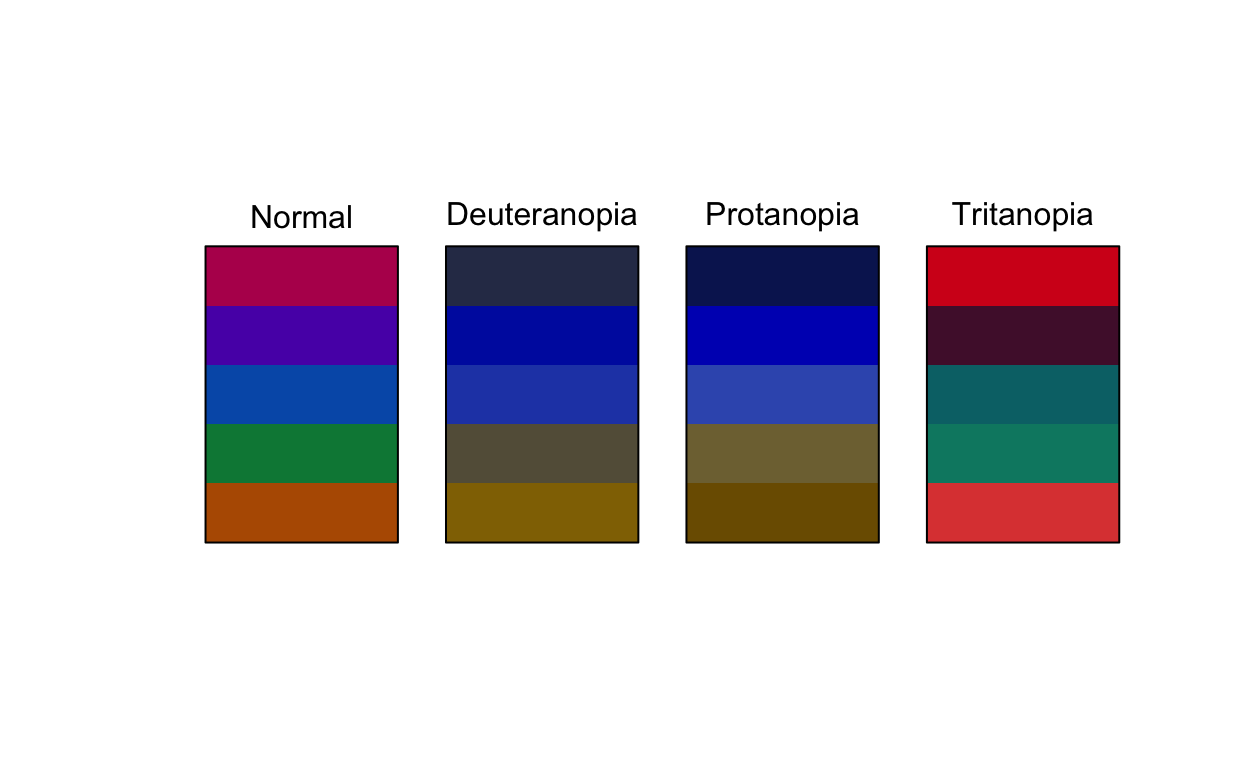
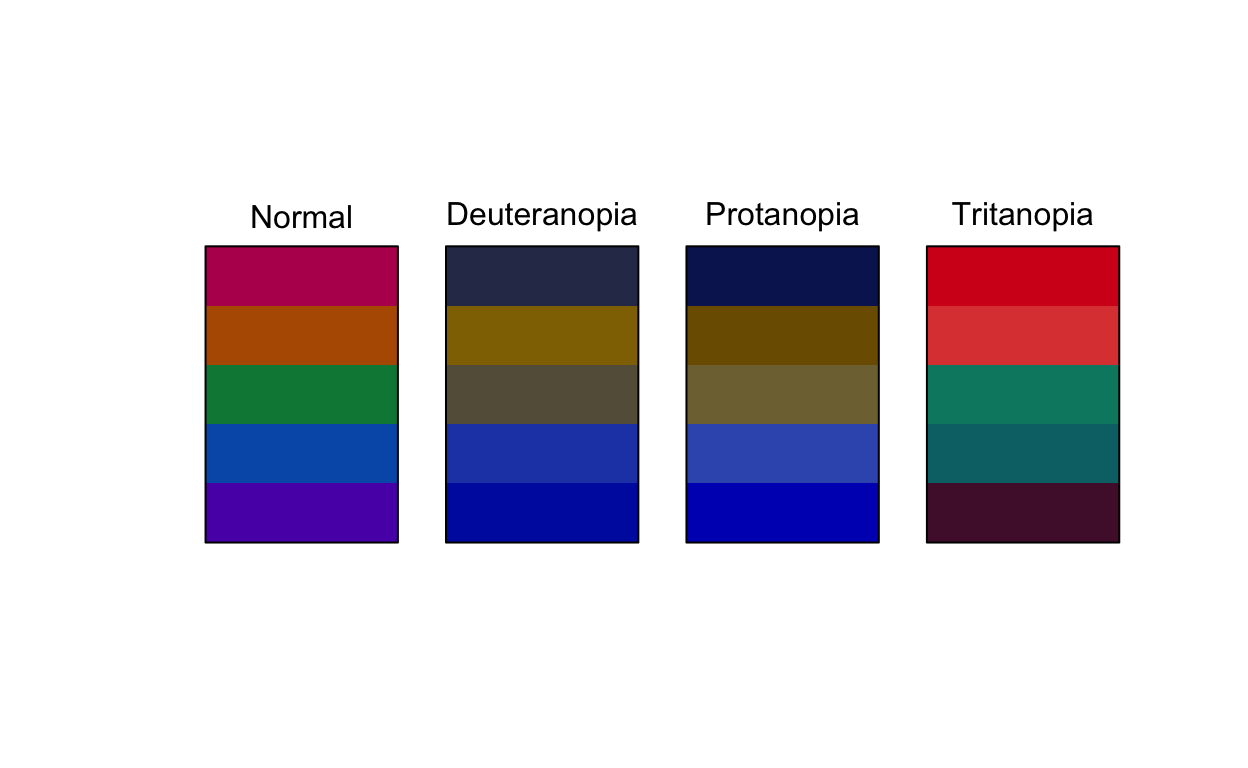
finish colourblindness section

Changed region(s): [[0.1562, 0.375, 0.9062, 0.7188]]

diff --git a/_posts/2021-05-15-custom-syntax-highlighting-for-distill/custom-syntax-highlighting-for-distill.html b/_posts/2021-05-15-custom-syntax-highlighting-for-distill/custom-syntax-highlighting-for-distill.html
@@ -124,7 +124,7 @@ code span.wa { color: #5e5e5e; font-style: italic; } /* Warning */
   <!--/radix_placeholder_rmarkdown_metadata-->
   
   <script type="text/json" id="radix-resource-manifest">
-  {"type":"character","attributes":{},"value":["colour-harmonies.jpg","colour-palettes-d4006a.png","contrast-check.png","custom-syntax-highlighting-for-distill_files/anchor-4.2.2/anchor.min.js","custom-syntax-highlighting-for-distill_files/bowser-1.9.3/bowser.min.js","custom-syntax-highlighting-for-distill_files/distill-2.2.21/template.v2.js","custom-syntax-highlighting-for-distill_files/figure-html5/colour-theory-palette-1.png","custom-syntax-highlighting-for-distill_files/figure-html5/unnamed-chunk-10-1.png","custom-syntax-highlighting-for-distill_files/figure-html5/unnamed-chunk-11-1.png","custom-syntax-highlighting-for-distill_files/figure-html5/unnamed-chunk-2-1.png","custom-syntax-highlighting-for-distill_files/figure-html5/unnamed-chunk-3-1.png","custom-syntax-highlighting-for-distill_files/figure-html5/unnamed-chunk-4-1.png","custom-syntax-highlighting-for-distill_files/figure-html5/unnamed-chunk-5-1.png","custom-syntax-highlighting-for-distill_files/figure-html5/unnamed-chunk-5-2.png","custom-syntax-highlighting-for-distill_files/figure-html5/unnamed-chunk-6-1.png","custom-syntax-highlighting-for-distill_files/figure-html5/unnamed-chunk-7-1.png","custom-syntax-highlighting-for-distill_files/figure-html5/unnamed-chunk-8-1.png","custom-syntax-highlighting-for-distill_files/figure-html5/unnamed-chunk-9-1.png","custom-syntax-highlighting-for-distill_files/header-attrs-2.8/header-attrs.js","custom-syntax-highlighting-for-distill_files/jquery-1.11.3/jquery.min.js","custom-syntax-highlighting-for-distill_files/popper-2.6.0/popper.min.js","custom-syntax-highlighting-for-distill_files/tippy-6.2.7/tippy-bundle.umd.min.js","custom-syntax-highlighting-for-distill_files/tippy-6.2.7/tippy-light-border.css","custom-syntax-highlighting-for-distill_files/tippy-6.2.7/tippy.css","custom-syntax-highlighting-for-distill_files/tippy-6.2.7/tippy.umd.min.js","custom-syntax-highlighting-for-distill_files/webcomponents-2.0.0/webcomponents.js","ek-syntax-highlighting-palette.png","first-colour-swatch.png","hsl-colour-wheel-d4006a-annotated.png","hsl-colour-wheel-d4006a.png","hsl-hsb-sliders.png","second-colour-swatch.png","third-colour-swatch.png"]}
+  {"type":"character","attributes":{},"value":["check-colorblindness.png","colour-harmonies.jpg","colour-palettes-d4006a.png","contrast-check.png","custom-syntax-highlighting-for-distill_files/anchor-4.2.2/anchor.min.js","custom-syntax-highlighting-for-distill_files/bowser-1.9.3/bowser.min.js","custom-syntax-highlighting-for-distill_files/distill-2.2.21/template.v2.js","custom-syntax-highlighting-for-distill_files/figure-html5/colour-theory-palette-1.png","custom-syntax-highlighting-for-distill_files/figure-html5/unnamed-chunk-10-1.png","custom-syntax-highlighting-for-distill_files/figure-html5/unnamed-chunk-11-1.png","custom-syntax-highlighting-for-distill_files/figure-html5/unnamed-chunk-2-1.png","custom-syntax-highlighting-for-distill_files/figure-html5/unnamed-chunk-3-1.png","custom-syntax-highlighting-for-distill_files/figure-html5/unnamed-chunk-4-1.png","custom-syntax-highlighting-for-distill_files/figure-html5/unnamed-chunk-5-1.png","custom-syntax-highlighting-for-distill_files/figure-html5/unnamed-chunk-5-2.png","custom-syntax-highlighting-for-distill_files/figure-html5/unnamed-chunk-6-1.png","custom-syntax-highlighting-for-distill_files/figure-html5/unnamed-chunk-7-1.png","custom-syntax-highlighting-for-distill_files/figure-html5/unnamed-chunk-8-1.png","custom-syntax-highlighting-for-distill_files/figure-html5/unnamed-chunk-9-1.png","custom-syntax-highlighting-for-distill_files/header-attrs-2.8/header-attrs.js","custom-syntax-highlighting-for-distill_files/jquery-1.11.3/jquery.min.js","custom-syntax-highlighting-for-distill_files/popper-2.6.0/popper.min.js","custom-syntax-highlighting-for-distill_files/tippy-6.2.7/tippy-bundle.umd.min.js","custom-syntax-highlighting-for-distill_files/tippy-6.2.7/tippy-light-border.css","custom-syntax-highlighting-for-distill_files/tippy-6.2.7/tippy.css","custom-syntax-highlighting-for-distill_files/tippy-6.2.7/tippy.umd.min.js","custom-syntax-highlighting-for-distill_files/webcomponents-2.0.0/webcomponents.js","ek-syntax-highlighting-palette.png","first-colour-swatch.png","hsl-colour-wheel-d4006a-annotated.png","hsl-colour-wheel-d4006a.png","hsl-hsb-sliders.png","second-colour-swatch.png","third-colour-swatch.png"]}
   </script>
   <!--radix_placeholder_navigation_in_header-->
   <!--/radix_placeholder_navigation_in_header-->
@@ -1672,7 +1672,7 @@ Figure 4: Colours for syntax highlighting, starting from my main pink, based onl
 </div>
 <h3 id="adapting-for-web-accessibility">Adapting for web accessibility</h3>
 <p>As noted at the beginning of this post, one key feature of the default syntax highlighting scheme for {distill} is that it is optimised for accessibility and colour contrast. According to the <a href="https://www.w3.org/WAI/standards-guidelines/wcag/">Web Content Accessibility Guidelines</a>, at the WCAG AA (minimum contrast) level, this requires that that contrast ratio between text and background colours be at least 4.5:1 for text of 14pt+ (which is the default text size for code in {distill}). The more stringent WCAG AAA (enhanced) level requires a ratio of at least 7:1.</p>
-<p>The pro version of ColorSlurp includes a contrast checker, as in Figure <a href="#fig:colorslurp-contrast">5</a>, though there are many websites that also offer this. The WebAIM (Web with Accessibility in Mind), has a very handy <a href="https://webaim.org/resources/contrastchecker/">contrast checker</a> which, like ColorSlurp, also includes lightness sliders for adjusting the colours until the desired contrast is reached. Darkening a colour to improve contrast keeps the hue and saturation the same but reduces the brightness or lightness component (ColorSlurp uses HSB, WebAIM uses HCL).</p>
+<p>The pro version of ColorSlurp includes a contrast checker, as in Figure <a href="#fig:colorslurp-contrast">5</a>, though there are many websites that also offer this. The WebAIM (Web with Accessibility in Mind), has a very handy <a href="https://webaim.org/resources/contrastchecker/">contrast checker</a> which, like ColorSlurp, also includes lightness sliders for adjusting the colours until the desired contrast is reached. Darkening a colour to improve contrast keeps the hue and saturation the same but reduces the brightness or lightness component (ColorSlurp uses HSB, WebAIM uses HSL).</p>
 <div class="layout-chunk" data-layout="l-body">
 <div class="figure"><span id="fig:colorslurp-contrast"></span>
 <img src="contrast-check.png" alt="Contrast checking in ColorSlurp" width="598" />
@@ -1711,30 +1711,22 @@ Figure 8: The palette I settled on for my syntax highlighting scheme.
 </p>
 </div>
 </div>
-<p>I’m happy with that, and that’s the syntax highlighting scheme I’ve adopted throughout this site, despite the fact that the palette now doesn’t actually include the pink that I set out to build my scheme around! However, because of the process I’ve followed, the pink that is in the palette does tones well with the brighter pink and I think my site still has a consistent look. In the end, it was more important that all the colours in the palette looked consistent together and met accessibility guidelines.</p>
-<p>I am only just beginning to learn about web accessibility, and I know my site does not yet meet all best practices, but I’m committed to improving in this area. I first became aware of the issue of web accessibility because I follow <a href="https://twitter.com/spcanelon">Silvia Canelón on twitter</a> and I highly recommend you do the same! The <a href="https://www.a11yproject.com">a11y project</a> and <a href="https://webaim.org">WebAIM</a> are also great places to get started.</p>
-<h3 id="checking-for-colourblindness">Checking for colourblindness</h3>
-<ul>
-<li><a href="https://njt-monash-colour.netlify.app/#1" class="uri">https://njt-monash-colour.netlify.app/#1</a></li>
-<li><a href="https://www.njtierney.com/post/2020/10/15/assess-colour/" class="uri">https://www.njtierney.com/post/2020/10/15/assess-colour/</a></li>
-</ul>
 <div class="layout-chunk" data-layout="l-body">
 <div class="sourceCode">
-<pre class="sourceCode r"><code class="sourceCode r"><span class='kw'><a href='https://rdrr.io/r/base/library.html'>library</a></span><span class='op'>(</span><span class='va'><a href='https://colorspace.R-Forge.R-project.org/'>colorspace</a></span><span class='op'>)</span>
-<span class='va'>ek_highlight_colours</span> <span class='op'>&lt;-</span> <span class='fu'><a href='https://rdrr.io/r/base/c.html'>c</a></span><span class='op'>(</span><span class='st'>"#B65B00"</span>, <span class='st'>"#008643"</span>, <span class='st'>"#005BB6"</span>, <span class='st'>"#5A00B5"</span>, <span class='st'>"#B6005B"</span><span class='op'>)</span>
-<span class='fu'><a href='https://colorspace.R-Forge.R-project.org//reference/swatchplot.html'>swatchplot</a></span><span class='op'>(</span><span class='fu'><a href='https://rdrr.io/r/base/rev.html'>rev</a></span><span class='op'>(</span><span class='va'>ek_highlight_colours</span><span class='op'>)</span>, border <span class='op'>=</span> <span class='st'>"transparent"</span><span class='op'>)</span>
+<pre class="sourceCode r"><code class="sourceCode r"><span class='fu'><a href='https://rdrr.io/r/graphics/par.html'>par</a></span><span class='op'>(</span>mar <span class='op'>=</span> <span class='fu'><a href='https://rdrr.io/r/base/c.html'>c</a></span><span class='op'>(</span><span class='fl'>4</span>, <span class='fl'>4</span>, <span class='fl'>0.1</span>, <span class='fl'>0.1</span><span class='op'>)</span><span class='op'>)</span>  
+<span class='kw'><a href='https://rdrr.io/r/base/library.html'>library</a></span><span class='op'>(</span><span class='va'><a href='https://scales.r-lib.org'>scales</a></span><span class='op'>)</span>
+<span class='fu'>scales</span><span class='fu'>::</span><span class='fu'><a href='https://scales.r-lib.org/reference/show_col.html'>show_col</a></span><span class='op'>(</span><span class='fu'><a href='https://rdrr.io/r/base/rev.html'>rev</a></span><span class='op'>(</span><span class='va'>ek_highlight_colours</span><span class='op'>)</span>, ncol <span class='op'>=</span> <span class='fl'>5</span>, labels <span class='op'>=</span> <span class='cn'>TRUE</span>, borders <span class='op'>=</span> <span class='st'>"white"</span>, cex_label <span class='op'>=</span> <span class='fl'>0.8</span><span class='op'>)</span>
 </code></pre>
 </div>
 <p><img src="custom-syntax-highlighting-for-distill_files/figure-html5/unnamed-chunk-4-1.png" width="624" /></p>
 </div>
-<div class="layout-chunk" data-layout="l-body">
-<div class="sourceCode">
-<pre class="sourceCode r"><code class="sourceCode r"><span class='kw'><a href='https://rdrr.io/r/base/library.html'>library</a></span><span class='op'>(</span><span class='va'><a href='https://github.com/EmilHvitfeldt/prismatic'>prismatic</a></span><span class='op'>)</span>
-<span class='fu'><a href='https://rdrr.io/pkg/prismatic/man/check_color_blindness.html'>check_color_blindness</a></span><span class='op'>(</span><span class='va'>ek_highlight_colours</span><span class='op'>)</span>
-</code></pre>
-</div>
-<p><img src="custom-syntax-highlighting-for-distill_files/figure-html5/unnamed-chunk-5-1.png" width="624" /></p>
-</div>
+<p>I’m happy with that, and that’s the syntax highlighting scheme I’ve adopted throughout this site, despite the fact that the palette now doesn’t actually include the pink that I set out to build my scheme around! However, because of the process I’ve followed, the pink that is in the palette does tones well with the brighter pink and I think my site still has a consistent look. In the end, it was more important that all the colours in the palette looked consistent together and met accessibility guidelines.</p>
+<p>I am only just beginning to learn about web accessibility, and I know my site does not yet meet all best practices, but I’m committed to improving in this area. I first became aware of the issue of web accessibility because I follow <a href="https://twitter.com/spcanelon">Silvia Canelón on twitter</a> and I highly recommend you do the same! The <a href="https://www.a11yproject.com">a11y project</a> and <a href="https://webaim.org">WebAIM</a> are great places to learn more.</p>
+<h3 id="checking-for-colourblindness">Checking for colourblindness</h3>
+<p>Some visual impairments require a high colour contrast between text and background colour in order to be able to read content on the web. Another class of visual impairment worth paying attention to when designing palettes in that of colour blindness. (The WCAG note that all users should be able to access information that is conveyed by colour differences).</p>
+<p><a href="https://www.njtierney.com">Nick Tierney</a> has some excellent resources about colour and colourblindness and R packages for accessing these. <a href="https://njt-monash-colour.netlify.app/#1">These comprehensive slides</a> cover what colour is and how we perceive it, colourblindness, how to check how palettes/plots appear to those with different types of colourblindness, the HCL space, the {colorspace} package and how to create your own palettes. He also has a <a href="https://www.njtierney.com/post/2020/10/15/assess-colour/">short blog post</a> on quickly assessing colour palettes to ensure they’re colourblind-friendly.</p>
+<p>As recommended in the above posts, I use the <a href="https://emilhvitfeldt.github.io/prismatic/">{prismatic}</a> package by <a href="https://www.hvitfeldt.me">Emil Hvitfeldt</a> to check how my syntax highlighting palette appears to those with different types of colourblindness:</p>
+<p>Thankfully, for all three main types of colourblindess, the five colours in the palette are distinguishable, so no further adjustments are necessary.</p>
 <h3 id="an-r-based-alternative">An R-based alternative</h3>
 <div class="layout-chunk" data-layout="l-body">
 <div class="sourceCode">

diff --git a/_site/posts/2021-05-15-custom-syntax-highlighting-for-distill/index.html b/_site/posts/2021-05-15-custom-syntax-highlighting-for-distill/index.html
@@ -137,7 +137,7 @@ code span.wa { color: #5e5e5e; font-style: italic; } /* Warning */
 <!--/radix_placeholder_rmarkdown_metadata-->
   
   <script type="text/json" id="radix-resource-manifest">
-  {"type":"character","attributes":{},"value":["colour-harmonies.jpg","colour-palettes-d4006a.png","contrast-check.png","custom-syntax-highlighting-for-distill_files/anchor-4.2.2/anchor.min.js","custom-syntax-highlighting-for-distill_files/bowser-1.9.3/bowser.min.js","custom-syntax-highlighting-for-distill_files/distill-2.2.21/template.v2.js","custom-syntax-highlighting-for-distill_files/figure-html5/colour-theory-palette-1.png","custom-syntax-highlighting-for-distill_files/figure-html5/unnamed-chunk-10-1.png","custom-syntax-highlighting-for-distill_files/figure-html5/unnamed-chunk-11-1.png","custom-syntax-highlighting-for-distill_files/figure-html5/unnamed-chunk-2-1.png","custom-syntax-highlighting-for-distill_files/figure-html5/unnamed-chunk-3-1.png","custom-syntax-highlighting-for-distill_files/figure-html5/unnamed-chunk-4-1.png","custom-syntax-highlighting-for-distill_files/figure-html5/unnamed-chunk-5-1.png","custom-syntax-highlighting-for-distill_files/figure-html5/unnamed-chunk-5-2.png","custom-syntax-highlighting-for-distill_files/figure-html5/unnamed-chunk-6-1.png","custom-syntax-highlighting-for-distill_files/figure-html5/unnamed-chunk-7-1.png","custom-syntax-highlighting-for-distill_files/figure-html5/unnamed-chunk-8-1.png","custom-syntax-highlighting-for-distill_files/figure-html5/unnamed-chunk-9-1.png","custom-syntax-highlighting-for-distill_files/header-attrs-2.8/header-attrs.js","custom-syntax-highlighting-for-distill_files/jquery-1.11.3/jquery.min.js","custom-syntax-highlighting-for-distill_files/popper-2.6.0/popper.min.js","custom-syntax-highlighting-for-distill_files/tippy-6.2.7/tippy-bundle.umd.min.js","custom-syntax-highlighting-for-distill_files/tippy-6.2.7/tippy-light-border.css","custom-syntax-highlighting-for-distill_files/tippy-6.2.7/tippy.css","custom-syntax-highlighting-for-distill_files/tippy-6.2.7/tippy.umd.min.js","custom-syntax-highlighting-for-distill_files/webcomponents-2.0.0/webcomponents.js","ek-syntax-highlighting-palette.png","first-colour-swatch.png","hsl-colour-wheel-d4006a-annotated.png","hsl-colour-wheel-d4006a.png","hsl-hsb-sliders.png","second-colour-swatch.png","third-colour-swatch.png"]}
+  {"type":"character","attributes":{},"value":["check-colorblindness.png","colour-harmonies.jpg","colour-palettes-d4006a.png","contrast-check.png","custom-syntax-highlighting-for-distill_files/anchor-4.2.2/anchor.min.js","custom-syntax-highlighting-for-distill_files/bowser-1.9.3/bowser.min.js","custom-syntax-highlighting-for-distill_files/distill-2.2.21/template.v2.js","custom-syntax-highlighting-for-distill_files/figure-html5/colour-theory-palette-1.png","custom-syntax-highlighting-for-distill_files/figure-html5/unnamed-chunk-10-1.png","custom-syntax-highlighting-for-distill_files/figure-html5/unnamed-chunk-11-1.png","custom-syntax-highlighting-for-distill_files/figure-html5/unnamed-chunk-2-1.png","custom-syntax-highlighting-for-distill_files/figure-html5/unnamed-chunk-3-1.png","custom-syntax-highlighting-for-distill_files/figure-html5/unnamed-chunk-4-1.png","custom-syntax-highlighting-for-distill_files/figure-html5/unnamed-chunk-5-1.png","custom-syntax-highlighting-for-distill_files/figure-html5/unnamed-chunk-5-2.png","custom-syntax-highlighting-for-distill_files/figure-html5/unnamed-chunk-6-1.png","custom-syntax-highlighting-for-distill_files/figure-html5/unnamed-chunk-7-1.png","custom-syntax-highlighting-for-distill_files/figure-html5/unnamed-chunk-8-1.png","custom-syntax-highlighting-for-distill_files/figure-html5/unnamed-chunk-9-1.png","custom-syntax-highlighting-for-distill_files/header-attrs-2.8/header-attrs.js","custom-syntax-highlighting-for-distill_files/jquery-1.11.3/jquery.min.js","custom-syntax-highlighting-for-distill_files/popper-2.6.0/popper.min.js","custom-syntax-highlighting-for-distill_files/tippy-6.2.7/tippy-bundle.umd.min.js","custom-syntax-highlighting-for-distill_files/tippy-6.2.7/tippy-light-border.css","custom-syntax-highlighting-for-distill_files/tippy-6.2.7/tippy.css","custom-syntax-highlighting-for-distill_files/tippy-6.2.7/tippy.umd.min.js","custom-syntax-highlighting-for-distill_files/webcomponents-2.0.0/webcomponents.js","ek-syntax-highlighting-palette.png","first-colour-swatch.png","hsl-colour-wheel-d4006a-annotated.png","hsl-colour-wheel-d4006a.png","hsl-hsb-sliders.png","second-colour-swatch.png","third-colour-swatch.png"]}
   </script>
   <!--radix_placeholder_navigation_in_header-->
 <meta name="distill:offset" content="../.."/>
@@ -2603,7 +2603,7 @@ Figure 4: Colours for syntax highlighting, starting from my main pink, based onl
 </div>
 <h3 id="adapting-for-web-accessibility">Adapting for web accessibility</h3>
 <p>As noted at the beginning of this post, one key feature of the default syntax highlighting scheme for {distill} is that it is optimised for accessibility and colour contrast. According to the <a href="https://www.w3.org/WAI/standards-guidelines/wcag/">Web Content Accessibility Guidelines</a>, at the WCAG AA (minimum contrast) level, this requires that that contrast ratio between text and background colours be at least 4.5:1 for text of 14pt+ (which is the default text size for code in {distill}). The more stringent WCAG AAA (enhanced) level requires a ratio of at least 7:1.</p>
-<p>The pro version of ColorSlurp includes a contrast checker, as in Figure <a href="#fig:colorslurp-contrast">5</a>, though there are many websites that also offer this. The WebAIM (Web with Accessibility in Mind), has a very handy <a href="https://webaim.org/resources/contrastchecker/">contrast checker</a> which, like ColorSlurp, also includes lightness sliders for adjusting the colours until the desired contrast is reached. Darkening a colour to improve contrast keeps the hue and saturation the same but reduces the brightness or lightness component (ColorSlurp uses HSB, WebAIM uses HCL).</p>
+<p>The pro version of ColorSlurp includes a contrast checker, as in Figure <a href="#fig:colorslurp-contrast">5</a>, though there are many websites that also offer this. The WebAIM (Web with Accessibility in Mind), has a very handy <a href="https://webaim.org/resources/contrastchecker/">contrast checker</a> which, like ColorSlurp, also includes lightness sliders for adjusting the colours until the desired contrast is reached. Darkening a colour to improve contrast keeps the hue and saturation the same but reduces the brightness or lightness component (ColorSlurp uses HSB, WebAIM uses HSL).</p>
 <div class="layout-chunk" data-layout="l-body">
 <div class="figure"><span id="fig:colorslurp-contrast"></span>
 <img src="contrast-check.png" alt="Contrast checking in ColorSlurp" width="598" />
@@ -2642,30 +2642,22 @@ Figure 8: The palette I settled on for my syntax highlighting scheme.
 </p>
 </div>
 </div>
-<p>I’m happy with that, and that’s the syntax highlighting scheme I’ve adopted throughout this site, despite the fact that the palette now doesn’t actually include the pink that I set out to build my scheme around! However, because of the process I’ve followed, the pink that is in the palette does tones well with the brighter pink and I think my site still has a consistent look. In the end, it was more important that all the colours in the palette looked consistent together and met accessibility guidelines.</p>
-<p>I am only just beginning to learn about web accessibility, and I know my site does not yet meet all best practices, but I’m committed to improving in this area. I first became aware of the issue of web accessibility because I follow <a href="https://twitter.com/spcanelon">Silvia Canelón on twitter</a> and I highly recommend you do the same! The <a href="https://www.a11yproject.com">a11y project</a> and <a href="https://webaim.org">WebAIM</a> are also great places to get started.</p>
-<h3 id="checking-for-colourblindness">Checking for colourblindness</h3>
-<ul>
-<li><a href="https://njt-monash-colour.netlify.app/#1" class="uri">https://njt-monash-colour.netlify.app/#1</a></li>
-<li><a href="https://www.njtierney.com/post/2020/10/15/assess-colour/" class="uri">https://www.njtierney.com/post/2020/10/15/assess-colour/</a></li>
-</ul>
 <div class="layout-chunk" data-layout="l-body">
 <div class="sourceCode">
-<pre class="sourceCode r"><code class="sourceCode r"><span class='kw'><a href='https://rdrr.io/r/base/library.html'>library</a></span><span class='op'>(</span><span class='va'><a href='https://colorspace.R-Forge.R-project.org/'>colorspace</a></span><span class='op'>)</span>
-<span class='va'>ek_highlight_colours</span> <span class='op'>&lt;-</span> <span class='fu'><a href='https://rdrr.io/r/base/c.html'>c</a></span><span class='op'>(</span><span class='st'>"#B65B00"</span>, <span class='st'>"#008643"</span>, <span class='st'>"#005BB6"</span>, <span class='st'>"#5A00B5"</span>, <span class='st'>"#B6005B"</span><span class='op'>)</span>
-<span class='fu'><a href='https://colorspace.R-Forge.R-project.org//reference/swatchplot.html'>swatchplot</a></span><span class='op'>(</span><span class='fu'><a href='https://rdrr.io/r/base/rev.html'>rev</a></span><span class='op'>(</span><span class='va'>ek_highlight_colours</span><span class='op'>)</span>, border <span class='op'>=</span> <span class='st'>"transparent"</span><span class='op'>)</span>
+<pre class="sourceCode r"><code class="sourceCode r"><span class='fu'><a href='https://rdrr.io/r/graphics/par.html'>par</a></span><span class='op'>(</span>mar <span class='op'>=</span> <span class='fu'><a href='https://rdrr.io/r/base/c.html'>c</a></span><span class='op'>(</span><span class='fl'>4</span>, <span class='fl'>4</span>, <span class='fl'>0.1</span>, <span class='fl'>0.1</span><span class='op'>)</span><span class='op'>)</span>  
+<span class='kw'><a href='https://rdrr.io/r/base/library.html'>library</a></span><span class='op'>(</span><span class='va'><a href='https://scales.r-lib.org'>scales</a></span><span class='op'>)</span>
+<span class='fu'>scales</span><span class='fu'>::</span><span class='fu'><a href='https://scales.r-lib.org/reference/show_col.html'>show_col</a></span><span class='op'>(</span><span class='fu'><a href='https://rdrr.io/r/base/rev.html'>rev</a></span><span class='op'>(</span><span class='va'>ek_highlight_colours</span><span class='op'>)</span>, ncol <span class='op'>=</span> <span class='fl'>5</span>, labels <span class='op'>=</span> <span class='cn'>TRUE</span>, borders <span class='op'>=</span> <span class='st'>"white"</span>, cex_label <span class='op'>=</span> <span class='fl'>0.8</span><span class='op'>)</span>
 </code></pre>
 </div>
 <p><img src="custom-syntax-highlighting-for-distill_files/figure-html5/unnamed-chunk-4-1.png" width="624" /></p>
 </div>
-<div class="layout-chunk" data-layout="l-body">
-<div class="sourceCode">
-<pre class="sourceCode r"><code class="sourceCode r"><span class='kw'><a href='https://rdrr.io/r/base/library.html'>library</a></span><span class='op'>(</span><span class='va'><a href='https://github.com/EmilHvitfeldt/prismatic'>prismatic</a></span><span class='op'>)</span>
-<span class='fu'><a href='https://rdrr.io/pkg/prismatic/man/check_color_blindness.html'>check_color_blindness</a></span><span class='op'>(</span><span class='va'>ek_highlight_colours</span><span class='op'>)</span>
-</code></pre>
-</div>
-<p><img src="custom-syntax-highlighting-for-distill_files/figure-html5/unnamed-chunk-5-1.png" width="624" /></p>
-</div>
+<p>I’m happy with that, and that’s the syntax highlighting scheme I’ve adopted throughout this site, despite the fact that the palette now doesn’t actually include the pink that I set out to build my scheme around! However, because of the process I’ve followed, the pink that is in the palette does tones well with the brighter pink and I think my site still has a consistent look. In the end, it was more important that all the colours in the palette looked consistent together and met accessibility guidelines.</p>
+<p>I am only just beginning to learn about web accessibility, and I know my site does not yet meet all best practices, but I’m committed to improving in this area. I first became aware of the issue of web accessibility because I follow <a href="https://twitter.com/spcanelon">Silvia Canelón on twitter</a> and I highly recommend you do the same! The <a href="https://www.a11yproject.com">a11y project</a> and <a href="https://webaim.org">WebAIM</a> are great places to learn more.</p>
+<h3 id="checking-for-colourblindness">Checking for colourblindness</h3>
+<p>Some visual impairments require a high colour contrast between text and background colour in order to be able to read content on the web. Another class of visual impairment worth paying attention to when designing palettes in that of colour blindness. (The WCAG note that all users should be able to access information that is conveyed by colour differences).</p>
+<p><a href="https://www.njtierney.com">Nick Tierney</a> has some excellent resources about colour and colourblindness and R packages for accessing these. <a href="https://njt-monash-colour.netlify.app/#1">These comprehensive slides</a> cover what colour is and how we perceive it, colourblindness, how to check how palettes/plots appear to those with different types of colourblindness, the HCL space, the {colorspace} package and how to create your own palettes. He also has a <a href="https://www.njtierney.com/post/2020/10/15/assess-colour/">short blog post</a> on quickly assessing colour palettes to ensure they’re colourblind-friendly.</p>
+<p>As recommended in the above posts, I use the <a href="https://emilhvitfeldt.github.io/prismatic/">{prismatic}</a> package by <a href="https://www.hvitfeldt.me">Emil Hvitfeldt</a> to check how my syntax highlighting palette appears to those with different types of colourblindness:</p>
+<p>Thankfully, for all three main types of colourblindess, the five colours in the palette are distinguishable, so no further adjustments are necessary.</p>
 <h3 id="an-r-based-alternative">An R-based alternative</h3>
 <div class="layout-chunk" data-layout="l-body">
 <div class="sourceCode">
